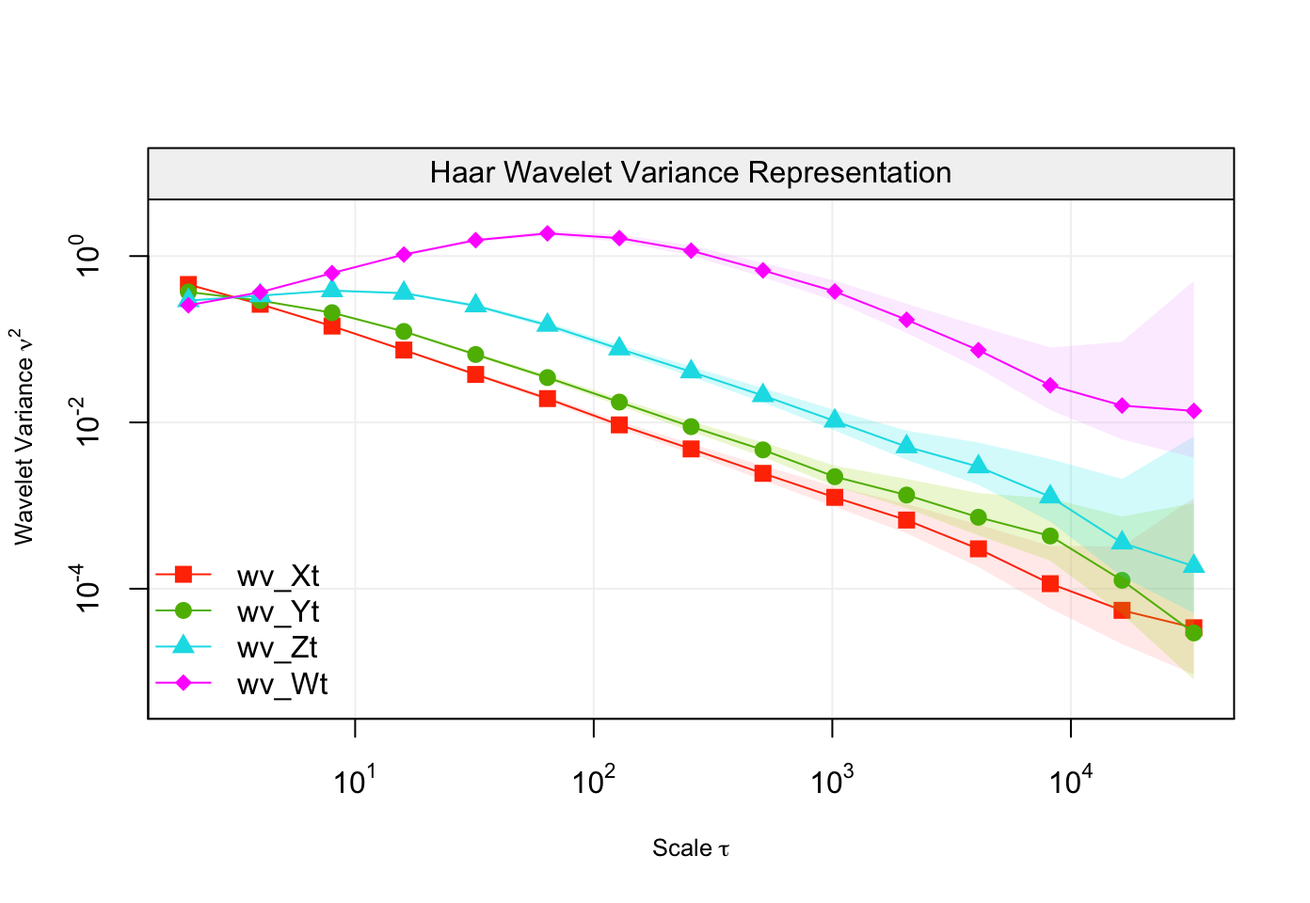
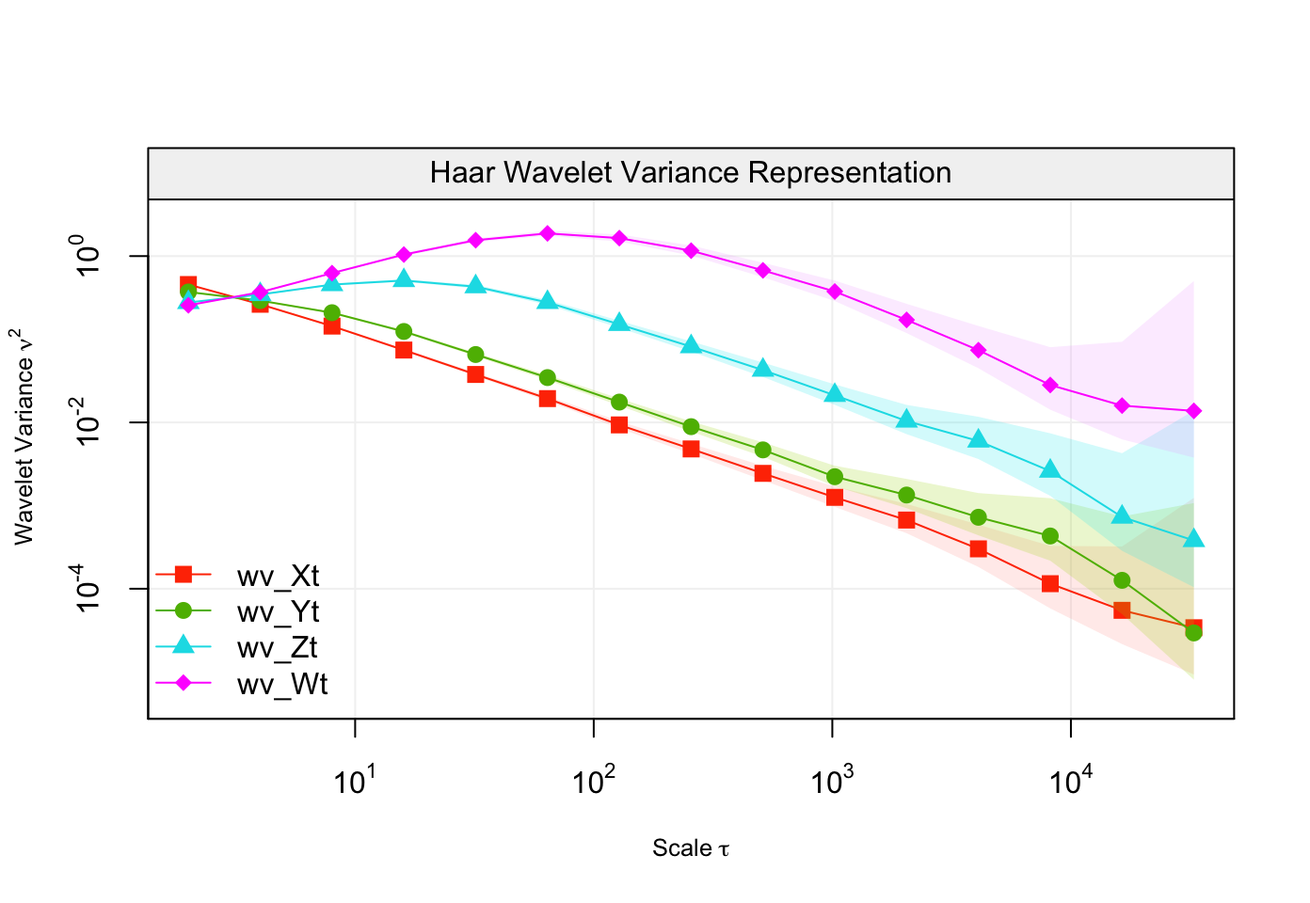
Some cleaning up and fixing minor things :wrench:

Changed region(s): [[0.1853, 0.2812, 0.9267, 0.6875], [0.1236, 0.3125, 0.1545, 0.3438]]

diff --git a/docs/index.html b/docs/index.html
@@ -5,11 +5,11 @@
 <meta charset="utf-8">
 <meta http-equiv="X-UA-Compatible" content="IE=edge">
 <meta name="viewport" content="width=device-width, initial-scale=1.0">
-<title>Wavelet variance • wv</title>
+<title>Wavelet Variance • wv</title>
 <!-- jquery --><script src="https://code.jquery.com/jquery-3.1.0.min.js" integrity="sha384-nrOSfDHtoPMzJHjVTdCopGqIqeYETSXhZDFyniQ8ZHcVy08QesyHcnOUpMpqnmWq" crossorigin="anonymous"></script><!-- Bootstrap --><link href="https://maxcdn.bootstrapcdn.com/bootswatch/3.3.7/flatly/bootstrap.min.css" rel="stylesheet" crossorigin="anonymous">
 <script src="https://maxcdn.bootstrapcdn.com/bootstrap/3.3.7/js/bootstrap.min.js" integrity="sha384-Tc5IQib027qvyjSMfHjOMaLkfuWVxZxUPnCJA7l2mCWNIpG9mGCD8wGNIcPD7Txa" crossorigin="anonymous"></script><!-- Font Awesome icons --><link href="https://maxcdn.bootstrapcdn.com/font-awesome/4.6.3/css/font-awesome.min.css" rel="stylesheet" integrity="sha384-T8Gy5hrqNKT+hzMclPo118YTQO6cYprQmhrYwIiQ/3axmI1hQomh7Ud2hPOy8SP1" crossorigin="anonymous">
 <!-- clipboard.js --><script src="https://cdnjs.cloudflare.com/ajax/libs/clipboard.js/1.7.1/clipboard.min.js" integrity="sha384-cV+rhyOuRHc9Ub/91rihWcGmMmCXDeksTtCihMupQHSsi8GIIRDG0ThDc3HGQFJ3" crossorigin="anonymous"></script><!-- sticky kit --><script src="https://cdnjs.cloudflare.com/ajax/libs/sticky-kit/1.1.3/sticky-kit.min.js" integrity="sha256-c4Rlo1ZozqTPE2RLuvbusY3+SU1pQaJC0TjuhygMipw=" crossorigin="anonymous"></script><!-- pkgdown --><link href="pkgdown.css" rel="stylesheet">
-<script src="pkgdown.js"></script><meta property="og:title" content="Wavelet variance">
+<script src="pkgdown.js"></script><meta property="og:title" content="Wavelet Variance">
 <meta property="og:description" content="Compute the classical and robust wavelet variance for time series and regular lattices.">
 <meta property="og:image" content="/logo.png">
 <meta name="twitter:card" content="summary">
@@ -93,15 +93,20 @@
 <h3 class="hasAnchor">
 <a href="#discrete-wavelet-transform-dwt" class="anchor"></a>Discrete Wavelet Transform (DWT)</h3>
 <p>The DWT performs a wavelet decomposition by applying the wavelet filter to non-overlapping windows of the time series. Below is an example of how to perform this decomposition on a simulated Gaussian random walk process.</p>
-<div class="sourceCode" id="cb2"><pre class="sourceCode r"><code class="sourceCode r"><a class="sourceLine" id="cb2-1" data-line-number="1"><span class="co"># Set seed for reproducibility </span></a>
-<a class="sourceLine" id="cb2-2" data-line-number="2"><span class="kw">set.seed</span>(<span class="dv">999</span>)</a>
-<a class="sourceLine" id="cb2-3" data-line-number="3"></a>
-<a class="sourceLine" id="cb2-4" data-line-number="4"><span class="co"># Simulate a Gaussian random walk</span></a>
-<a class="sourceLine" id="cb2-5" data-line-number="5">n =<span class="st"> </span><span class="dv">10</span><span class="op">^</span><span class="dv">3</span></a>
-<a class="sourceLine" id="cb2-6" data-line-number="6">Xt =<span class="st"> </span><span class="kw">cumsum</span>(<span class="kw">rnorm</span>(n))</a>
+<div class="sourceCode" id="cb2"><pre class="sourceCode r"><code class="sourceCode r"><a class="sourceLine" id="cb2-1" data-line-number="1"><span class="co"># Load packages</span></a>
+<a class="sourceLine" id="cb2-2" data-line-number="2"><span class="kw">library</span>(wv)</a>
+<a class="sourceLine" id="cb2-3" data-line-number="3"><span class="kw">library</span>(simts)</a>
+<a class="sourceLine" id="cb2-4" data-line-number="4"></a>
+<a class="sourceLine" id="cb2-5" data-line-number="5"><span class="co"># Set seed for reproducibility </span></a>
+<a class="sourceLine" id="cb2-6" data-line-number="6"><span class="kw">set.seed</span>(<span class="dv">999</span>)</a>
 <a class="sourceLine" id="cb2-7" data-line-number="7"></a>
-<a class="sourceLine" id="cb2-8" data-line-number="8"><span class="co"># Plot the simulated random walk</span></a>
-<a class="sourceLine" id="cb2-9" data-line-number="9"><span class="kw">plot</span>(Xt, <span class="dt">type =</span> <span class="st">"l"</span>)</a></code></pre></div>
+<a class="sourceLine" id="cb2-8" data-line-number="8"><span class="co"># Simulate a Gaussian random walk</span></a>
+<a class="sourceLine" id="cb2-9" data-line-number="9">n =<span class="st"> </span><span class="dv">10</span><span class="op">^</span><span class="dv">3</span></a>
+<a class="sourceLine" id="cb2-10" data-line-number="10">model =<span class="st"> </span><span class="kw"><a href="http://www.rdocumentation.org/packages/simts/topics/RW">RW</a></span>(<span class="dt">gamma2 =</span> <span class="dv">1</span>)</a>
+<a class="sourceLine" id="cb2-11" data-line-number="11">Xt =<span class="st"> </span><span class="kw"><a href="http://www.rdocumentation.org/packages/simts/topics/gen_gts">gen_gts</a></span>(<span class="dt">n =</span> n, <span class="dt">model =</span> model)</a>
+<a class="sourceLine" id="cb2-12" data-line-number="12"></a>
+<a class="sourceLine" id="cb2-13" data-line-number="13"><span class="co"># Plot the simulated random walk</span></a>
+<a class="sourceLine" id="cb2-14" data-line-number="14"><span class="kw">plot</span>(Xt)</a></code></pre></div>
 <p><img src="reference/figures/README-unnamed-chunk-3-1.png" width="700"></p>
 <p>Based on the above code, we have simulated a random walk with null expectation unit innovation variance. The functions to compute the DWT, access its output and plot the related wavelet coefficients can be found below.</p>
 <!-- For the moment this method will only work with Haar wavelets.  -->
@@ -186,17 +191,17 @@ Maximum Overlap Discrete Wavelet Transform (MODWT) for scales 1 to 9 for a simul
 <div class="sourceCode" id="cb5"><pre class="sourceCode r"><code class="sourceCode r"><a class="sourceLine" id="cb5-1" data-line-number="1"><span class="co"># Set seed for reproducibility </span></a>
 <a class="sourceLine" id="cb5-2" data-line-number="2"><span class="kw">set.seed</span>(<span class="dv">999</span>)</a>
 <a class="sourceLine" id="cb5-3" data-line-number="3"></a>
-<a class="sourceLine" id="cb5-4" data-line-number="4">n =<span class="st"> </span><span class="dv">10</span><span class="op">^</span><span class="dv">4</span></a>
-<a class="sourceLine" id="cb5-5" data-line-number="5"><span class="co"># Simulate White noise</span></a>
-<a class="sourceLine" id="cb5-6" data-line-number="6">WN =<span class="st"> </span><span class="kw">rnorm</span>(n)</a>
+<a class="sourceLine" id="cb5-4" data-line-number="4"><span class="co"># Simulate Gaussian White noise</span></a>
+<a class="sourceLine" id="cb5-5" data-line-number="5">n =<span class="st"> </span><span class="dv">10</span><span class="op">^</span><span class="dv">4</span></a>
+<a class="sourceLine" id="cb5-6" data-line-number="6">Xt =<span class="st"> </span><span class="kw"><a href="http://www.rdocumentation.org/packages/simts/topics/gen_gts">gen_gts</a></span>(<span class="dt">n =</span> n, <span class="dt">model =</span> <span class="kw"><a href="http://www.rdocumentation.org/packages/simts/topics/WN">WN</a></span>(<span class="dt">sigma2 =</span> <span class="dv">1</span>))</a>
 <a class="sourceLine" id="cb5-7" data-line-number="7"></a>
-<a class="sourceLine" id="cb5-8" data-line-number="8"><span class="co"># Simulate Random walk</span></a>
-<a class="sourceLine" id="cb5-9" data-line-number="9">RW =<span class="st"> </span><span class="kw">cumsum</span>(<span class="kw">rnorm</span>(n))</a>
+<a class="sourceLine" id="cb5-8" data-line-number="8"><span class="co"># Simulate Gaussian Random walk</span></a>
+<a class="sourceLine" id="cb5-9" data-line-number="9">Yt =<span class="st"> </span><span class="kw"><a href="http://www.rdocumentation.org/packages/simts/topics/gen_gts">gen_gts</a></span>(<span class="dt">n =</span> n, <span class="dt">model =</span> <span class="kw"><a href="http://www.rdocumentation.org/packages/simts/topics/RW">RW</a></span>(<span class="dt">gamma2 =</span> <span class="dv">1</span>))</a>
 <a class="sourceLine" id="cb5-10" data-line-number="10"></a>
 <a class="sourceLine" id="cb5-11" data-line-number="11"><span class="co"># Plot WV</span></a>
 <a class="sourceLine" id="cb5-12" data-line-number="12"><span class="kw">par</span>(<span class="dt">mfrow =</span> <span class="kw">c</span>(<span class="dv">1</span>,<span class="dv">2</span>), <span class="dt">mar =</span> <span class="kw">c</span>(<span class="dv">4</span>,<span class="dv">5</span>,<span class="dv">1</span>,<span class="dv">1</span>))</a>
-<a class="sourceLine" id="cb5-13" data-line-number="13"><span class="kw">plot</span>(<span class="kw"><a href="reference/wvar.html">wvar</a></span>(WN), <span class="dt">main =</span> <span class="st">"White noise"</span>)</a>
-<a class="sourceLine" id="cb5-14" data-line-number="14"><span class="kw">plot</span>(<span class="kw"><a href="reference/wvar.html">wvar</a></span>(RW), <span class="dt">main =</span> <span class="st">"Random walk"</span>, <span class="dt">legend_position =</span> <span class="ot">NULL</span>)</a></code></pre></div>
+<a class="sourceLine" id="cb5-13" data-line-number="13"><span class="kw">plot</span>(<span class="kw"><a href="reference/wvar.html">wvar</a></span>(Xt), <span class="dt">main =</span> <span class="st">"White noise"</span>)</a>
+<a class="sourceLine" id="cb5-14" data-line-number="14"><span class="kw">plot</span>(<span class="kw"><a href="reference/wvar.html">wvar</a></span>(Yt), <span class="dt">main =</span> <span class="st">"Random walk"</span>, <span class="dt">legend_position =</span> <span class="ot">NULL</span>)</a></code></pre></div>
 <div class="figure" style="text-align: center">
 <img src="reference/figures/README-unnamed-chunk-6-1.png" alt="Wavelet variance of two simulated processes, i.e white noise (left panel) and random walk (right panel)." width="696"><p class="caption">
 Wavelet variance of two simulated processes, i.e white noise (left panel) and random walk (right panel).
@@ -205,26 +210,29 @@ Wavelet variance of two simulated processes, i.e white noise (left panel) and ra
 <p>As indicated in the legends, the light shaded blue area represents the 95% confidence intervals for each scale of estimated wavelet variance. However, there could be many practical settings where the time series can suffer from some “contamination” (e.g. outliers) which can seriously bias the standard estimator of wavelet variance. The code below randomly replaces one percent of the observations from the above simulated random walk with observations from a white noise process with larger variance.</p>
 <div class="sourceCode" id="cb6"><pre class="sourceCode r"><code class="sourceCode r"><a class="sourceLine" id="cb6-1" data-line-number="1"><span class="co"># Add contamination</span></a>
 <a class="sourceLine" id="cb6-2" data-line-number="2">gamma =<span class="st"> </span><span class="fl">0.01</span></a>
-<a class="sourceLine" id="cb6-3" data-line-number="3">RW2 =<span class="st"> </span>RW</a>
-<a class="sourceLine" id="cb6-4" data-line-number="4">RW2[<span class="kw">sample</span>(<span class="dv">1</span><span class="op">:</span>n,<span class="kw">round</span>(gamma<span class="op">*</span>n))] =<span class="st"> </span><span class="kw">rnorm</span>(<span class="kw">round</span>(gamma<span class="op">*</span>n),<span class="dv">0</span>,<span class="dv">5</span>)</a>
+<a class="sourceLine" id="cb6-3" data-line-number="3">Yt2 =<span class="st"> </span>Yt</a>
+<a class="sourceLine" id="cb6-4" data-line-number="4">Yt2[<span class="kw">sample</span>(<span class="dv">1</span><span class="op">:</span>n,<span class="kw">round</span>(gamma<span class="op">*</span>n))] =<span class="st"> </span><span class="kw">rnorm</span>(<span class="kw">round</span>(gamma<span class="op">*</span>n),<span class="dv">0</span>,<span class="dv">5</span>)</a>
 <a class="sourceLine" id="cb6-5" data-line-number="5"><span class="kw">par</span>(<span class="dt">mfrow =</span> <span class="kw">c</span>(<span class="dv">1</span>,<span class="dv">2</span>), <span class="dt">mar =</span> <span class="kw">c</span>(<span class="dv">4</span>,<span class="dv">5</span>,<span class="dv">1</span>,<span class="dv">1</span>))</a>
-<a class="sourceLine" id="cb6-6" data-line-number="6"><span class="kw"><a href="reference/robust_eda.html">robust_eda</a></span>(RW, <span class="dt">main =</span> <span class="st">"RW without contamination"</span>)</a>
-<a class="sourceLine" id="cb6-7" data-line-number="7"><span class="kw"><a href="reference/robust_eda.html">robust_eda</a></span>(RW2, <span class="dt">legend_position =</span> <span class="ot">NULL</span>, <span class="dt">main =</span> <span class="st">"RW with contamination"</span>)</a></code></pre></div>
+<a class="sourceLine" id="cb6-6" data-line-number="6"><span class="kw"><a href="reference/robust_eda.html">robust_eda</a></span>(Yt, <span class="dt">main =</span> <span class="st">"RW without contamination"</span>)</a>
+<a class="sourceLine" id="cb6-7" data-line-number="7"><span class="kw"><a href="reference/robust_eda.html">robust_eda</a></span>(Yt2, <span class="dt">legend_position =</span> <span class="ot">NULL</span>, <span class="dt">main =</span> <span class="st">"RW with contamination"</span>)</a></code></pre></div>
 <p><img src="reference/figures/README-unnamed-chunk-7-1.png" width="696" style="display: block; margin: auto;"></p>
 <p>It can be seen how the classic and robust wavelet variance estimates agree when there is no contamination (left plot) but they classic estimates are heavily biased (especially at the first more informative scales) when the random walk has only 1% contamination.</p>
 <p>When dealing with different time series, it is possible to compare their respective wavelet variances to understand if they have similar behaviour/properties. An example is given below where four different first-order autoregressive processes (with different values of the autoregressive parameters) are simulated and succesively their wavelet variance is computed.</p>
-<div class="sourceCode" id="cb7"><pre class="sourceCode r"><code class="sourceCode r"><a class="sourceLine" id="cb7-1" data-line-number="1">n =<span class="st"> </span><span class="dv">10</span><span class="op">^</span><span class="dv">5</span></a>
-<a class="sourceLine" id="cb7-2" data-line-number="2">Xt =<span class="st"> </span><span class="kw">arima.sim</span>(<span class="dt">n =</span> n, <span class="kw">list</span>(<span class="dt">ar =</span> <span class="fl">0.10</span>))</a>
-<a class="sourceLine" id="cb7-3" data-line-number="3">Yt =<span class="st"> </span><span class="kw">arima.sim</span>(<span class="dt">n =</span> n, <span class="kw">list</span>(<span class="dt">ar =</span> <span class="fl">0.35</span>))</a>
-<a class="sourceLine" id="cb7-4" data-line-number="4">Zt =<span class="st"> </span><span class="kw">arima.sim</span>(<span class="dt">n =</span> n, <span class="kw">list</span>(<span class="dt">ar =</span> <span class="fl">0.70</span>))</a>
-<a class="sourceLine" id="cb7-5" data-line-number="5">Wt =<span class="st"> </span><span class="kw">arima.sim</span>(<span class="dt">n =</span> n, <span class="kw">list</span>(<span class="dt">ar =</span> <span class="fl">0.95</span>))</a>
-<a class="sourceLine" id="cb7-6" data-line-number="6"></a>
-<a class="sourceLine" id="cb7-7" data-line-number="7">wv_Xt =<span class="st"> </span><span class="kw"><a href="reference/wvar.html">wvar</a></span>(Xt)</a>
-<a class="sourceLine" id="cb7-8" data-line-number="8">wv_Yt =<span class="st"> </span><span class="kw"><a href="reference/wvar.html">wvar</a></span>(Yt)</a>
-<a class="sourceLine" id="cb7-9" data-line-number="9">wv_Zt =<span class="st"> </span><span class="kw"><a href="reference/wvar.html">wvar</a></span>(Zt)</a>
-<a class="sourceLine" id="cb7-10" data-line-number="10">wv_Wt =<span class="st"> </span><span class="kw"><a href="reference/wvar.html">wvar</a></span>(Wt)</a>
-<a class="sourceLine" id="cb7-11" data-line-number="11"></a>
-<a class="sourceLine" id="cb7-12" data-line-number="12"><span class="kw"><a href="reference/compare_wvar.html">compare_wvar</a></span>(wv_Xt, wv_Yt, wv_Zt, wv_Wt)</a></code></pre></div>
+<div class="sourceCode" id="cb7"><pre class="sourceCode r"><code class="sourceCode r"><a class="sourceLine" id="cb7-1" data-line-number="1"><span class="co"># Simulate AR processes</span></a>
+<a class="sourceLine" id="cb7-2" data-line-number="2">n =<span class="st"> </span><span class="dv">10</span><span class="op">^</span><span class="dv">5</span></a>
+<a class="sourceLine" id="cb7-3" data-line-number="3">Xt =<span class="st"> </span><span class="kw"><a href="http://www.rdocumentation.org/packages/simts/topics/gen_gts">gen_gts</a></span>(<span class="dt">n =</span> n, <span class="dt">model =</span> <span class="kw"><a href="http://www.rdocumentation.org/packages/simts/topics/AR1">AR1</a></span>(<span class="dt">phi =</span> <span class="fl">0.10</span>, <span class="dt">sigma2 =</span> <span class="dv">1</span>))</a>
+<a class="sourceLine" id="cb7-4" data-line-number="4">Yt =<span class="st"> </span><span class="kw"><a href="http://www.rdocumentation.org/packages/simts/topics/gen_gts">gen_gts</a></span>(<span class="dt">n =</span> n, <span class="dt">model =</span> <span class="kw"><a href="http://www.rdocumentation.org/packages/simts/topics/AR1">AR1</a></span>(<span class="dt">phi =</span> <span class="fl">0.35</span>, <span class="dt">sigma2 =</span> <span class="dv">1</span>))</a>
+<a class="sourceLine" id="cb7-5" data-line-number="5">Zt =<span class="st"> </span><span class="kw"><a href="http://www.rdocumentation.org/packages/simts/topics/gen_gts">gen_gts</a></span>(<span class="dt">n =</span> n, <span class="dt">model =</span> <span class="kw"><a href="http://www.rdocumentation.org/packages/simts/topics/AR1">AR1</a></span>(<span class="dt">phi =</span> <span class="fl">0.79</span>, <span class="dt">sigma2 =</span> <span class="dv">1</span>))</a>
+<a class="sourceLine" id="cb7-6" data-line-number="6">Wt =<span class="st"> </span><span class="kw"><a href="http://www.rdocumentation.org/packages/simts/topics/gen_gts">gen_gts</a></span>(<span class="dt">n =</span> n, <span class="dt">model =</span> <span class="kw"><a href="http://www.rdocumentation.org/packages/simts/topics/AR1">AR1</a></span>(<span class="dt">phi =</span> <span class="fl">0.95</span>, <span class="dt">sigma2 =</span> <span class="dv">1</span>))</a>
+<a class="sourceLine" id="cb7-7" data-line-number="7"></a>
+<a class="sourceLine" id="cb7-8" data-line-number="8"><span class="co"># Compute WV</span></a>
+<a class="sourceLine" id="cb7-9" data-line-number="9">wv_Xt =<span class="st"> </span><span class="kw"><a href="reference/wvar.html">wvar</a></span>(Xt)</a>
+<a class="sourceLine" id="cb7-10" data-line-number="10">wv_Yt =<span class="st"> </span><span class="kw"><a href="reference/wvar.html">wvar</a></span>(Yt)</a>
+<a class="sourceLine" id="cb7-11" data-line-number="11">wv_Zt =<span class="st"> </span><span class="kw"><a href="reference/wvar.html">wvar</a></span>(Zt)</a>
+<a class="sourceLine" id="cb7-12" data-line-number="12">wv_Wt =<span class="st"> </span><span class="kw"><a href="reference/wvar.html">wvar</a></span>(Wt)</a>
+<a class="sourceLine" id="cb7-13" data-line-number="13"></a>
+<a class="sourceLine" id="cb7-14" data-line-number="14"><span class="co"># Plot results</span></a>
+<a class="sourceLine" id="cb7-15" data-line-number="15"><span class="kw"><a href="reference/compare_wvar.html">compare_wvar</a></span>(wv_Xt, wv_Yt, wv_Zt, wv_Wt)</a></code></pre></div>
 <p><img src="reference/figures/README-unnamed-chunk-8-1.png" width="696" style="display: block; margin: auto;"></p>
 <p>As seen above, the function <code><a href="reference/compare_wvar.html">compare_wvar()</a></code> allows to plot different outputs of the <code><a href="reference/wvar.html">wvar()</a></code> function and it can be seen how the four time series deliver different wavelet variances (as the autoregressive parameter approaches zero, the shape of the wavelet variance plot approaches the behaviour of the wavelet variance of a white noise process).</p>
 </div>
@@ -274,13 +282,12 @@ Wavelet variance of two simulated processes, i.e white noise (left panel) and ra
 <h2>Dev status</h2>
 <ul class="list-unstyled">
 <li><a href="https://travis-ci.org/SMAC-Group/wv"><img src="https://travis-ci.org/SMAC-Group/wv.svg?branch=master" alt="Travis-CI Build Status"></a></li>
-<li><a href="https://ci.appveyor.com/project/stephaneguerrier/wv"><img src="https://ci.appveyor.com/api/projects/status/github/tidyverse/dplyr?branch=master&amp;svg=true" alt="AppVeyor Build Status"></a></li>
 <li><a href="http://www.repostatus.org/#active"><img src="http://www.repostatus.org/badges/latest/active.svg" alt="Project Status: Active"></a></li>
 <li><a href="https://opensource.org/licenses/AGPL-3.0"><img src="https://img.shields.io/badge/licence-AGPL--3.0-blue.svg" alt="Licence"></a></li>
 <li><a href="https://cran.r-project.org/"><img src="https://img.shields.io/badge/R%3E%3D-3.4.0-6666ff.svg" alt="minimal R version"></a></li>
 <li><a href="https://cran.r-project.org/package=wv"><img src="http://www.r-pkg.org/badges/version/simts" alt="CRAN"></a></li>
 <li><a href="commits/develop"><img src="https://img.shields.io/badge/Package%20version-0.1.0-orange.svg?style=flat-square" alt="packageversion"></a></li>
-<li><a href="/commits/master"><img src="https://img.shields.io/badge/last%20change-2019--04--24-yellowgreen.svg" alt="Last-changedate"></a></li>
+<li><a href="/commits/master"><img src="https://img.shields.io/badge/last%20change-2019--08--17-yellowgreen.svg" alt="Last-changedate"></a></li>
 </ul>
 </div>
 </div>

diff --git a/docs/reference/plot.dwt.html b/docs/reference/plot.dwt.html
@@ -141,7 +141,7 @@ value the the same color will be used for all scales.</p></td>
 <span class='co'># dwt</span>
 <span class='no'>Yt</span> <span class='kw'>=</span> <span class='fu'><a href='dwt.html'>dwt</a></span>(<span class='no'>Xt</span>)</div><div class='output co'>#&gt; <span class='warning'>Warning: The data has been truncated so that it is divisible by `nlevels` (e.g. 2^*)</span></div><div class='input'>
 <span class='co'># Graph examples</span>
-<span class='fu'>plot</span>(<span class='no'>Yt</span>)</div><div class='img'><img src='plot.dwt-1.png' alt='' width='700' height='433' /></div><div class='input'><span class='fu'>plot</span>(<span class='no'>Yt</span>, <span class='kw'>index</span> <span class='kw'>=</span> <span class='fu'>c</span>(<span class='fl'>1</span>,<span class='fl'>4</span>,<span class='fl'>5</span>,<span class='fl'>6</span>,<span class='fl'>8</span>,<span class='fl'>2</span>))</div><div class='output co'>#&gt; <span class='warning'>Warning: the condition has length &gt; 1 and only the first element will be used</span></div><div class='img'><img src='plot.dwt-2.png' alt='' width='700' height='433' /></div><div class='input'><span class='fu'>plot</span>(<span class='no'>Yt</span>, <span class='kw'>index</span> <span class='kw'>=</span> <span class='fu'>c</span>(<span class='fl'>1</span>,<span class='fl'>4</span>,<span class='fl'>5</span>,<span class='fl'>6</span>), <span class='kw'>couleur</span> <span class='kw'>=</span> <span class='st'>"blue"</span>)</div><div class='output co'>#&gt; <span class='warning'>Warning: the condition has length &gt; 1 and only the first element will be used</span></div><div class='img'><img src='plot.dwt-3.png' alt='' width='700' height='433' /></div><div class='input'><span class='fu'>plot</span>(<span class='no'>Yt</span>, <span class='kw'>index</span> <span class='kw'>=</span> <span class='fu'>c</span>(<span class='fl'>1</span>,<span class='fl'>4</span>,<span class='fl'>5</span>,<span class='fl'>6</span>), <span class='kw'>couleur</span> <span class='kw'>=</span> <span class='fu'>rep</span>(<span class='fu'>c</span>(<span class='st'>"blue"</span>,<span class='st'>"yellow"</span>),<span class='fl'>2</span>))</div><div class='output co'>#&gt; <span class='warning'>Warning: the condition has length &gt; 1 and only the first element will be used</span></div><div class='img'><img src='plot.dwt-4.png' alt='' width='700' height='433' /></div></pre>
+<span class='fu'>plot</span>(<span class='no'>Yt</span>)</div><div class='img'><img src='plot.dwt-1.png' alt='' width='700' height='433' /></div><div class='input'><span class='fu'>plot</span>(<span class='no'>Yt</span>, <span class='kw'>index</span> <span class='kw'>=</span> <span class='fu'>c</span>(<span class='fl'>1</span>,<span class='fl'>4</span>,<span class='fl'>5</span>,<span class='fl'>6</span>,<span class='fl'>8</span>,<span class='fl'>2</span>))</div><div class='img'><img src='plot.dwt-2.png' alt='' width='700' height='433' /></div><div class='input'><span class='fu'>plot</span>(<span class='no'>Yt</span>, <span class='kw'>index</span> <span class='kw'>=</span> <span class='fu'>c</span>(<span class='fl'>1</span>,<span class='fl'>4</span>,<span class='fl'>5</span>,<span class='fl'>6</span>), <span class='kw'>couleur</span> <span class='kw'>=</span> <span class='st'>"blue"</span>)</div><div class='img'><img src='plot.dwt-3.png' alt='' width='700' height='433' /></div><div class='input'><span class='fu'>plot</span>(<span class='no'>Yt</span>, <span class='kw'>index</span> <span class='kw'>=</span> <span class='fu'>c</span>(<span class='fl'>1</span>,<span class='fl'>4</span>,<span class='fl'>5</span>,<span class='fl'>6</span>), <span class='kw'>couleur</span> <span class='kw'>=</span> <span class='fu'>rep</span>(<span class='fu'>c</span>(<span class='st'>"blue"</span>,<span class='st'>"yellow"</span>),<span class='fl'>2</span>))</div><div class='img'><img src='plot.dwt-4.png' alt='' width='700' height='433' /></div></pre>
   </div>
   <div class="col-md-3 hidden-xs hidden-sm" id="sidebar">
     <h2>Contents</h2>

diff --git a/docs/reference/dwt.html b/docs/reference/dwt.html
@@ -171,7 +171,7 @@ The default \(J\) is determined by \(floor\left(log_2 \left(length\left(x\right)
 
     <h2>Author</h2>
     
-James Balamuta and Justin Lee
+James Balamuta, Justin Lee and Stephane Guerrier
 
   </div>
 </div>

diff --git a/docs/reference/modwt.html b/docs/reference/modwt.html
@@ -169,7 +169,7 @@ The default \(J\) is determined by \(floor\left(log_2 \left(length\left(x\right)
 
     <h2>Author</h2>
     
-James Balamuta and Justin Lee
+James Balamuta, Justin Lee and Stephane Guerrier
 
   </div>
 </div>

diff --git a/docs/reference/wvar.html b/docs/reference/wvar.html
@@ -240,7 +240,7 @@
 
     <h2>Author</h2>
     
-James Balamuta and Justin Lee
+James Balamuta, Justin Lee and Stephane Guerrier
 
   </div>
 </div>

diff --git a/README.md b/README.md
@@ -3,8 +3,6 @@
 
 [![Travis-CI Build
 Status](https://travis-ci.org/SMAC-Group/wv.svg?branch=master)](https://travis-ci.org/SMAC-Group/wv)
-[![AppVeyor Build
-Status](https://ci.appveyor.com/api/projects/status/github/tidyverse/dplyr?branch=master&svg=true)](https://ci.appveyor.com/project/stephaneguerrier/wv)
 [![Project Status:
 Active](http://www.repostatus.org/badges/latest/active.svg)](http://www.repostatus.org/#active)
 [![Licence](https://img.shields.io/badge/licence-AGPL--3.0-blue.svg)](https://opensource.org/licenses/AGPL-3.0)
@@ -12,7 +10,7 @@ Active](http://www.repostatus.org/badges/latest/active.svg)](http://www.repostat
 version](https://img.shields.io/badge/R%3E%3D-3.4.0-6666ff.svg)](https://cran.r-project.org/)
 [![CRAN](http://www.r-pkg.org/badges/version/simts)](https://cran.r-project.org/package=wv)
 [![packageversion](https://img.shields.io/badge/Package%20version-0.1.0-orange.svg?style=flat-square)](commits/develop)
-[![Last-changedate](https://img.shields.io/badge/last%20change-2019--04--24-yellowgreen.svg)](/commits/master)
+[![Last-changedate](https://img.shields.io/badge/last%20change-2019--08--17-yellowgreen.svg)](/commits/master)
 
 # `wv` Overview <a href="https://smac-group.com/"><img src="man/figures/logo.png" align="right" style="width: 20%; height: 20%"/></a>
 
@@ -77,15 +75,20 @@ how to perform this decomposition on a simulated Gaussian random walk
 process.
 
 ``` r
+# Load packages
+library(wv)
+library(simts)
+
 # Set seed for reproducibility 
 set.seed(999)
 
 # Simulate a Gaussian random walk
 n = 10^3
-Xt = cumsum(rnorm(n))
+model = RW(gamma2 = 1)
+Xt = gen_gts(n = n, model = model)
 
 # Plot the simulated random walk
-plot(Xt, type = "l")
+plot(Xt)
 ```
 
 ![](man/figures/README-unnamed-chunk-3-1.png)<!-- -->
@@ -186,17 +189,17 @@ their respective wavelet variances in a log-log plot applying the
 # Set seed for reproducibility 
 set.seed(999)
 
+# Simulate Gaussian White noise
 n = 10^4
-# Simulate White noise
-WN = rnorm(n)
+Xt = gen_gts(n = n, model = WN(sigma2 = 1))
 
-# Simulate Random walk
-RW = cumsum(rnorm(n))
+# Simulate Gaussian Random walk
+Yt = gen_gts(n = n, model = RW(gamma2 = 1))
 
 # Plot WV
 par(mfrow = c(1,2), mar = c(4,5,1,1))
-plot(wvar(WN), main = "White noise")
-plot(wvar(RW), main = "Random walk", legend_position = NULL)
+plot(wvar(Xt), main = "White noise")
+plot(wvar(Yt), main = "Random walk", legend_position = NULL)
 ```
 
 <img src="man/figures/README-unnamed-chunk-6-1.png" title="Wavelet variance of two simulated processes, i.e white noise (left panel) and random walk (right panel)." alt="Wavelet variance of two simulated processes, i.e white noise (left panel) and random walk (right panel)." style="display: block; margin: auto;" />
@@ -212,11 +215,11 @@ walk with observations from a white noise process with larger variance.
 ``` r
 # Add contamination
 gamma = 0.01
-RW2 = RW
-RW2[sample(1:n,round(gamma*n))] = rnorm(round(gamma*n),0,5)
+Yt2 = Yt
+Yt2[sample(1:n,round(gamma*n))] = rnorm(round(gamma*n),0,5)
 par(mfrow = c(1,2), mar = c(4,5,1,1))
-robust_eda(RW, main = "RW without contamination")
-robust_eda(RW2, legend_position = NULL, main = "RW with contamination")
+robust_eda(Yt, main = "RW without contamination")
+robust_eda(Yt2, legend_position = NULL, main = "RW with contamination")
 ```
 
 <img src="man/figures/README-unnamed-chunk-7-1.png" style="display: block; margin: auto;" />
@@ -234,17 +237,20 @@ autoregressive parameters) are simulated and succesively their wavelet
 variance is computed.
 
 ``` r
+# Simulate AR processes
 n = 10^5
-Xt = arima.sim(n = n, list(ar = 0.10))
-Yt = arima.sim(n = n, list(ar = 0.35))
-Zt = arima.sim(n = n, list(ar = 0.70))
-Wt = arima.sim(n = n, list(ar = 0.95))
+Xt = gen_gts(n = n, model = AR1(phi = 0.10, sigma2 = 1))
+Yt = gen_gts(n = n, model = AR1(phi = 0.35, sigma2 = 1))
+Zt = gen_gts(n = n, model = AR1(phi = 0.79, sigma2 = 1))
+Wt = gen_gts(n = n, model = AR1(phi = 0.95, sigma2 = 1))
 
+# Compute WV
 wv_Xt = wvar(Xt)
 wv_Yt = wvar(Yt)
 wv_Zt = wvar(Zt)
 wv_Wt = wvar(Wt)
 
+# Plot results
 compare_wvar(wv_Xt, wv_Yt, wv_Zt, wv_Wt)
 ```
 
